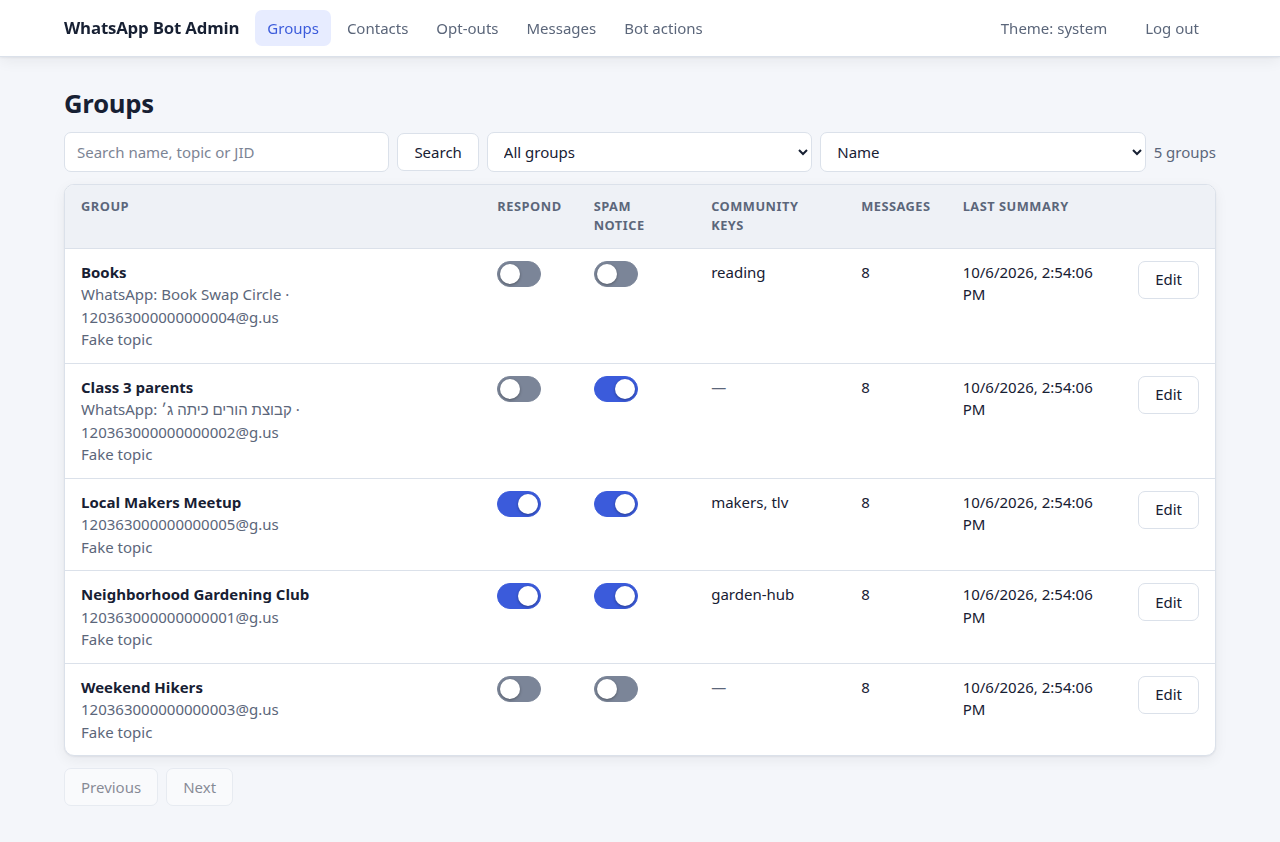
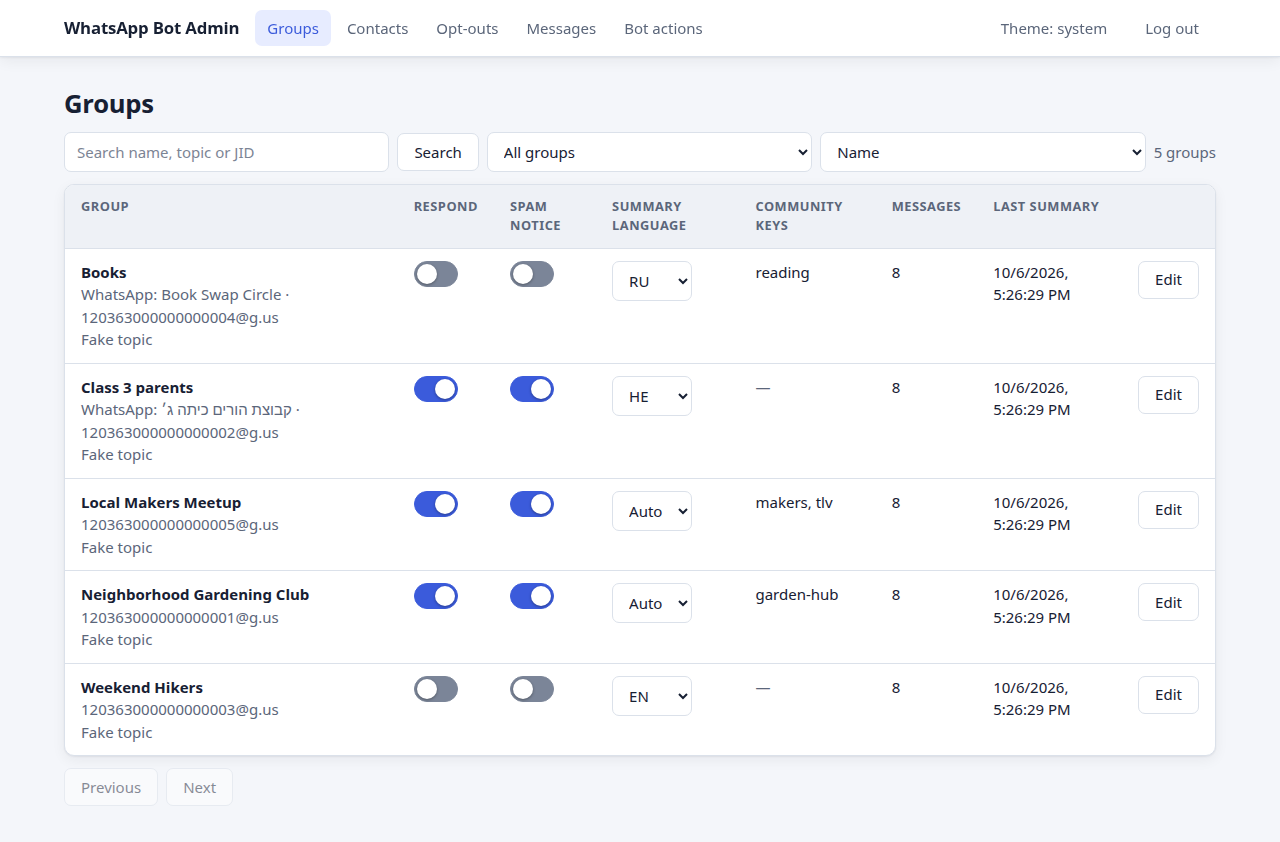
docs: document per-group summary language and refresh groups screenshots

diff --git a/README.md b/README.md
@@ -151,7 +151,8 @@ Earlier versions used [go-whatsapp-web-multidevice](https://github.com/aldinokem
 
 A web admin UI (served at `/admin`) lets you manage the bot without touching the database:
 
-- **Groups**: turn the bot on/off for a group ("managed"), toggle the spam notice, edit community keys and set a display name.
+- **Groups**: turn the bot on/off for a group ("managed"), toggle the spam notice, edit community keys, set a display name and choose the per-group **Summary language**.
+  - **Summary language** is `Auto`, `HE`, `EN` or `RU`. `Auto` follows the language of the chat. `HE`, `EN` and `RU` force that language for scheduled and admin-triggered summaries. On-demand summaries (a user asking the bot in the group) follow the language of the request.
 - **Contacts**: view and edit sender names.
 - **Opt-outs**: view, add and remove opted-out contacts.
 - **Messages**: read-only message browser with search and filters.
@@ -190,7 +191,7 @@ ADMIN_SESSION_SECRET=$(openssl rand -hex 32)
 ![Groups](assets/screenshots/admin-groups-light.png)
 ![Groups (dark)](assets/screenshots/admin-groups-dark.png)
 
-Editing a group (display name and community keys):
+Editing a group (display name, summary language and community keys):
 
 ![Edit group](assets/screenshots/admin-groups-edit-light.png)
 
